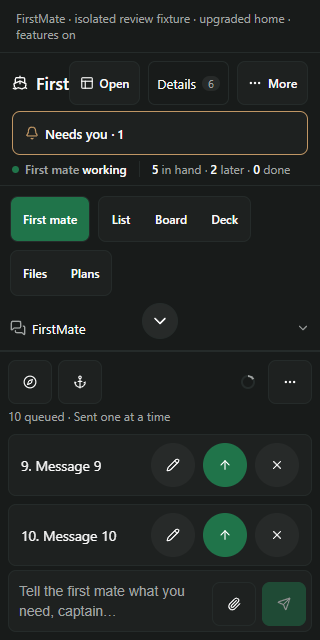
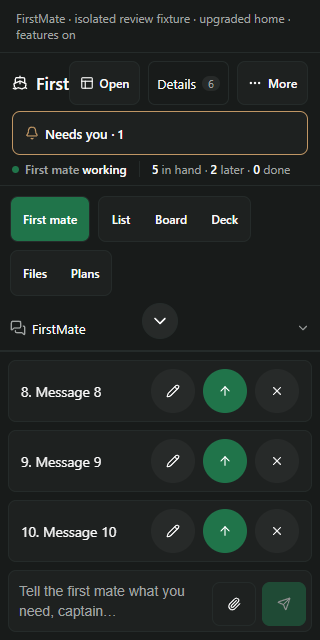
Bound Home composer context above fixed input controls

diff --git a/client/chat.tsx b/client/chat.tsx
@@ -321,7 +321,7 @@ function GeneralMateChat({
         borderTopColor: colors.border,
         backgroundColor: colors.surface0,
       },
-      composer: { padding: compact ? 8 : 10, gap: compact ? 4 : 8, width: "100%" as const, maxWidth: 760, alignSelf: "center" as const, minHeight: 0, flexShrink: 1 },
+      composer: { padding: compact ? 8 : 10, gap: 8, width: "100%" as const, maxWidth: 760, alignSelf: "center" as const, minHeight: 0, flexShrink: 1 },
       quick: { flexDirection: "row" as const, alignItems: "center" as const, gap: 6 },
       prompts: { flexDirection: "row" as const, alignItems: "center" as const, gap: 6 },
       chips: { flexDirection: "row" as const, flexWrap: "wrap" as const, gap: 6 },
@@ -559,82 +559,85 @@ function GeneralMateChat({
       */}
       <SafeAreaView style={styles.composerFrame}>
         <View style={styles.composer}>
-          {discussion ? (
-            <View style={{ flexDirection: "row", alignItems: "center", gap: 6 }}>
-              {discussing ? (
-                <Pressable accessibilityRole="button" accessibilityLabel={`Back to the decision: ${discussing.source.title}`}
-                  onPress={onReturnDecision} style={{ flex: 1, paddingVertical: 6, minHeight: compact ? 44 : undefined, justifyContent: "center" }}>
-                  <Text style={{ color: theme.colors.accent, fontSize: 12 }}>‹ Back to the decision · {discussing.source.title}</Text>
-                </Pressable>
-              ) : (
-                <Text style={{ color: theme.colors.foregroundMuted, fontSize: 12, flex: 1 }}>
-                  This decision changed or is no longer waiting. Open Needs you to check.
-                </Text>
-              )}
-              <IconButton theme={theme} compact={compact} icon="X" label="Dismiss decision reference" onPress={() => onDismissDiscussion?.()} />
-            </View>
-          ) : null}
-          <View style={styles.quick} onLayout={(event) => setToolbarWidth(event.nativeEvent.layout.width)}>
-            <View style={styles.prompts}>
-              <IconButton
-                icon="Compass"
-                label="Bearings"
-                compact={compact}
-                tooltip="Ask for a fresh fleet overview from saved records and live crew."
-                showLabel={toolbarWidth >= 400}
-                theme={theme}
-                disabled={sending}
-                onPress={() => sendCommand("bearings")}
-              />
-              <IconButton
-                icon="Anchor"
-                label="Ahoy"
-                compact={compact}
-                tooltip="Recap this conversation and walk through open decisions. First contact gives Bearings."
-                showLabel={toolbarWidth >= 400}
-                theme={theme}
-                disabled={sending}
-                onPress={() => sendCommand("ahoy")}
-              />
-            </View>
-            <MateControls
-              theme={theme}
-              compact={compact}
-              onOpenConversation={
-                navigation === undefined ? undefined : () => navigation.openAgent({ agentId: mate.id })
-              }
-              usedTokens={usage?.contextWindowUsedTokens}
-              maxTokens={usage?.contextWindowMaxTokens}
-              running={status === "running" || status === "initializing"}
-              onChanged={onChanged}
-            />
-          </View>
-          {attachments.length === 0 ? null : (
-            <View style={styles.chips}>
-              {attachments.map((attachment) => (
-                <AttachmentChip
-                  key={attachment.id}
-                  attachment={attachment}
-                  theme={theme}
+          {/* Context and queue share the remaining height above the fixed input. */}
+          <ScrollView testID="chat-composer-context" style={{ flexGrow: 0, flexShrink: 1, minHeight: 0 }} contentContainerStyle={{ gap: 8 }} keyboardShouldPersistTaps="handled">
+            {discussion ? (
+              <View style={{ flexDirection: "row", alignItems: "center", gap: 6 }}>
+                {discussing ? (
+                  <Pressable accessibilityRole="button" accessibilityLabel={`Back to the decision: ${discussing.source.title}`}
+                    onPress={onReturnDecision} style={{ flex: 1, paddingVertical: 6, minHeight: compact ? 44 : undefined, justifyContent: "center" }}>
+                    <Text style={{ color: theme.colors.accent, fontSize: 12 }}>‹ Back to the decision · {discussing.source.title}</Text>
+                  </Pressable>
+                ) : (
+                  <Text style={{ color: theme.colors.foregroundMuted, fontSize: 12, flex: 1 }}>
+                    This decision changed or is no longer waiting. Open Needs you to check.
+                  </Text>
+                )}
+                <IconButton theme={theme} compact={compact} icon="X" label="Dismiss decision reference" onPress={() => onDismissDiscussion?.()} />
+              </View>
+            ) : null}
+            <View style={styles.quick} onLayout={(event) => setToolbarWidth(event.nativeEvent.layout.width)}>
+              <View style={styles.prompts}>
+                <IconButton
+                  icon="Compass"
+                  label="Bearings"
                   compact={compact}
-                  onRemove={() =>
-                    setAttachments(pendingAttachments.get(mate.id).filter((kept) => kept.id !== attachment.id))
-                  }
+                  tooltip="Ask for a fresh fleet overview from saved records and live crew."
+                  showLabel={toolbarWidth >= 400}
+                  theme={theme}
+                  disabled={sending}
+                  onPress={() => sendCommand("bearings")}
                 />
-              ))}
+                <IconButton
+                  icon="Anchor"
+                  label="Ahoy"
+                  compact={compact}
+                  tooltip="Recap this conversation and walk through open decisions. First contact gives Bearings."
+                  showLabel={toolbarWidth >= 400}
+                  theme={theme}
+                  disabled={sending}
+                  onPress={() => sendCommand("ahoy")}
+                />
+              </View>
+              <MateControls
+                theme={theme}
+                compact={compact}
+                onOpenConversation={
+                  navigation === undefined ? undefined : () => navigation.openAgent({ agentId: mate.id })
+                }
+                usedTokens={usage?.contextWindowUsedTokens}
+                maxTokens={usage?.contextWindowMaxTokens}
+                running={status === "running" || status === "initializing"}
+                onChanged={onChanged}
+              />
             </View>
-          )}
-          {mentions.panel}
-          {mentions.panel ? <Text style={{ color: theme.colors.foregroundMuted, fontSize: 12 }}>To: FirstMate</Text> : null}
-          <ChatQueueRows queue={queue} theme={theme} compact={compact} onConfirmed={clearConfirmed} onEdit={payload => {
-            if (payload.kind !== "mate") return;
-            setDraft(payload.message.text);
-            setAttachments([
-              ...(payload.message.images ?? []).map((image, i) => ({ id: `queue-image-${i}`, kind: "image" as const, fileName: `Image ${i + 1}`, mimeType: image.mimeType, data: image.data, size: Math.floor(image.data.length * 3 / 4) })),
-              ...(payload.message.files ?? []).map((file, i) => ({ ...file, id: `queue-file-${i}`, kind: "file" as const, size: Math.floor(file.data.length * 3 / 4) })),
-            ]);
-            composer.current?.focus();
-          }} />
+            {attachments.length === 0 ? null : (
+              <View style={styles.chips}>
+                {attachments.map((attachment) => (
+                  <AttachmentChip
+                    key={attachment.id}
+                    attachment={attachment}
+                    theme={theme}
+                    compact={compact}
+                    onRemove={() =>
+                      setAttachments(pendingAttachments.get(mate.id).filter((kept) => kept.id !== attachment.id))
+                    }
+                  />
+                ))}
+              </View>
+            )}
+            {mentions.panel}
+            {mentions.panel ? <Text style={{ color: theme.colors.foregroundMuted, fontSize: 12 }}>To: FirstMate</Text> : null}
+            <ChatQueueRows queue={queue} theme={theme} compact={compact} onConfirmed={clearConfirmed} onEdit={payload => {
+              if (payload.kind !== "mate") return;
+              setDraft(payload.message.text);
+              setAttachments([
+                ...(payload.message.images ?? []).map((image, i) => ({ id: `queue-image-${i}`, kind: "image" as const, fileName: `Image ${i + 1}`, mimeType: image.mimeType, data: image.data, size: Math.floor(image.data.length * 3 / 4) })),
+                ...(payload.message.files ?? []).map((file, i) => ({ ...file, id: `queue-file-${i}`, kind: "file" as const, size: Math.floor(file.data.length * 3 / 4) })),
+              ]);
+              composer.current?.focus();
+            }} />
+          </ScrollView>
           <View style={styles.inputRow}>
             <GrowingChatInput
               ref={composer}

diff --git a/docs/chat-queue/review/README.md b/docs/chat-queue/review/README.md
@@ -1,6 +1,7 @@
 # Queue layout review
 
-Generated on 2026-10-30 with the real FirstMate chat surfaces and synthetic host APIs.
+Generated on 2026-10-30 and refreshed on 2026-10-31 with the real FirstMate chat
+surfaces and synthetic host APIs.
 The before revision is e8a1c0810805b9e05c85cce20d275f52c14917d9.
 
 | Surface | Before | After |
@@ -28,7 +29,9 @@ images were copied here so PR screenshots remain viewable without a browser uplo
 The independent review of b06dbbd found that three compact queue rows could push
 input and Send below short viewports. The queue and Home footer now yield height;
 scoped context/review/queue content scrolls above a fixed input-and-Send row.
-Compact outer composer gaps leave enough room for a complete 44px queued action.
+Both chats reserve the input and Send row, then allow context and queue content
+to scroll within the remaining height. A further 390x468 case checks that a
+wrapped host header or slightly shorter pane still fits a complete 44px action.
 Queue card spacing, action names, keyboard behavior and delivery remain unchanged.
 
 | Short viewport | Reviewed head b06dbbd | Corrected layout |
@@ -47,3 +50,13 @@ are also checked, including full visibility of the focused queued action:
 and emptied states, plus the independent review's original and rerun confirmation
 measurements. The accepted status change from PR183 is integrated unchanged; no
 status implementation is duplicated in this correction.
+
+The first integrated head d7c5c54 failed both hosted Ubuntu runs at 390x480:
+the host fixture's header wrapped onto a second line, leaving a 34px inner
+queue viewport for a 44px action. Windows was cancelled after the Ubuntu
+failure by the matrix's default fail-fast behavior. The bounded Home context
+scroller removes that dependence on host header height; the 390x468 regression
+failed locally before this correction. The harness now covers 28 cases across
+both themes and chat surfaces, with three and ten queued messages.
+
+![Focused action in the shorter 390x468 Home pane](large-light-short-pane-home.png)
